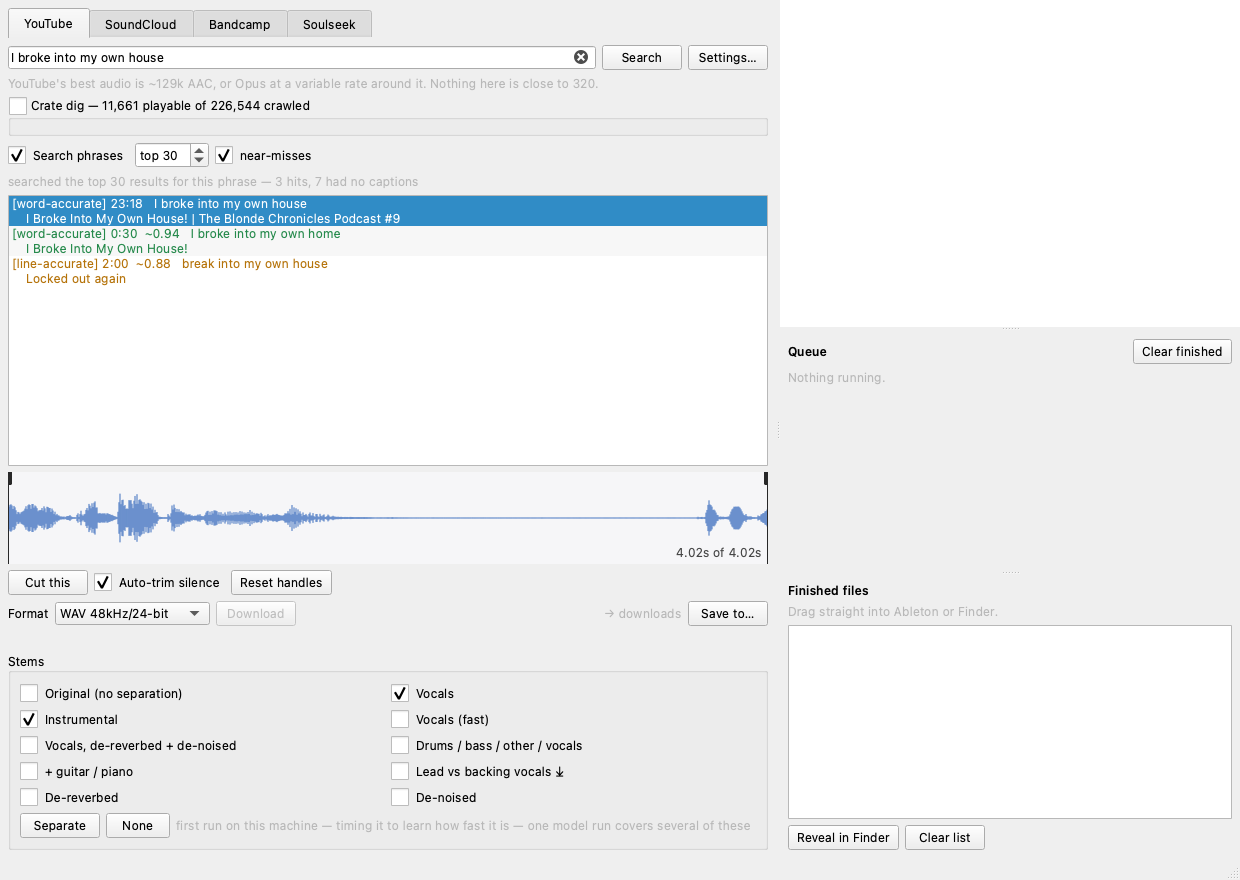
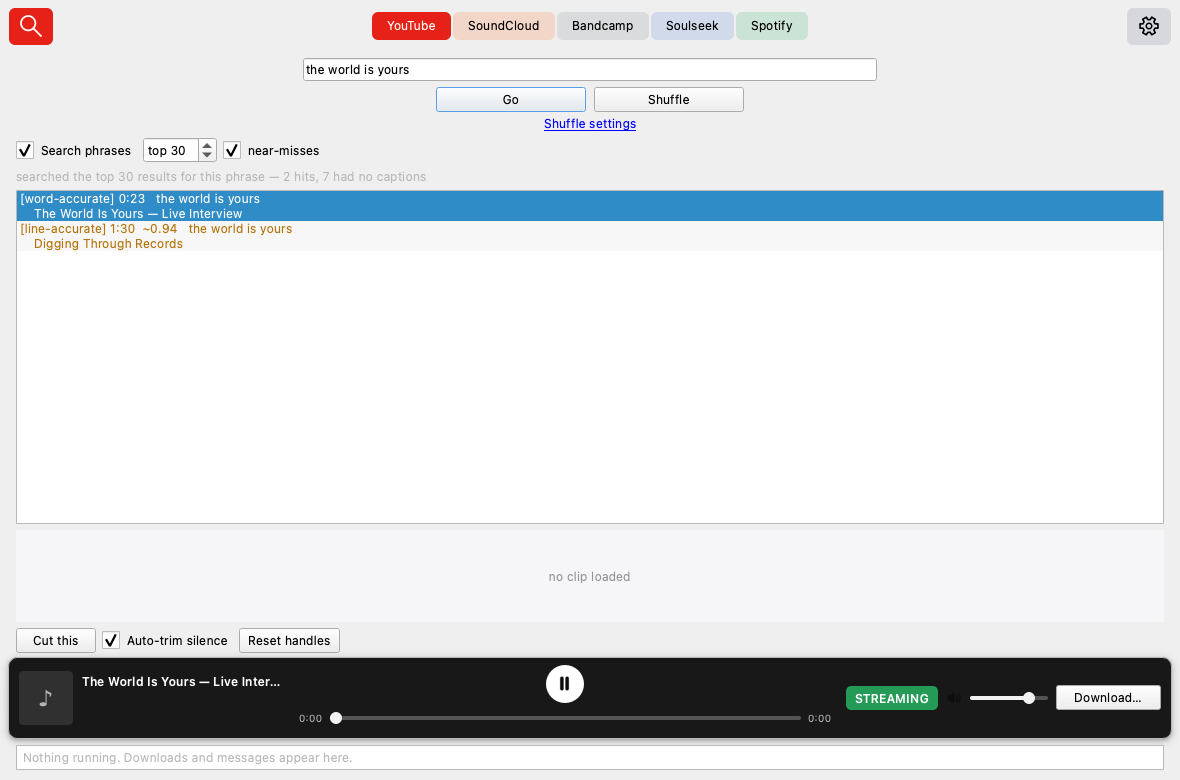
Restore Shuffle on clean checkouts

diff --git a/neyta/ui/window.py b/neyta/ui/window.py
@@ -12,9 +12,11 @@ gives the sources back when you press the magnifier beside it.
 from __future__ import annotations
 
 import logging
+import sqlite3
+import subprocess
 from pathlib import Path
 
-from PySide6.QtCore import QPoint, Qt, Signal
+from PySide6.QtCore import QPoint, Qt, QTimer, Signal
 from PySide6.QtWidgets import (
     QDialog, QFileDialog, QGridLayout, QHBoxLayout, QHeaderView, QLabel,
     QLineEdit, QMainWindow, QMessageBox, QPushButton, QStackedWidget,
@@ -228,6 +230,11 @@ class MainWindow(QMainWindow):
         popup_layout = QVBoxLayout(self.shuffle_popup)
         popup_layout.setContentsMargins(12, 12, 12, 12)
         popup_layout.addWidget(self.shuffle_panel)
+        self._samplette_process: subprocess.Popen | None = None
+        self._shuffle_when_ready = False
+        self._samplette_timer = QTimer(self)
+        self._samplette_timer.setInterval(2000)
+        self._samplette_timer.timeout.connect(self._refresh_samplette_library)
 
         self.model = results_ui.ResultModel(self)
         self.table = QTableView()
@@ -376,7 +383,7 @@ class MainWindow(QMainWindow):
         self.page_bar.selected.connect(self.show_page)
         self.search.returnPressed.connect(self.run_search)
         self.search_button.clicked.connect(self.run_search)
-        self.shuffle_button.clicked.connect(self.shuffle_panel.shuffle)
+        self.shuffle_button.clicked.connect(self._shuffle)
         self.shuffle_settings_button.clicked.connect(self._toggle_shuffle_popup)
         self.table.selectionModel().currentRowChanged.connect(self._on_row_selected)
         self.table.doubleClicked.connect(self.preview_result_at)
@@ -662,15 +669,88 @@ class MainWindow(QMainWindow):
         self.shuffle_popup.show()
 
     def _shuffle_controls_visible(self) -> bool:
-        return self.tab_key == "youtube" and self.shuffle_panel.library is not None
+        return self.tab_key == "youtube"
 
     def _refresh_shuffle_controls(self) -> None:
         visible = self._shuffle_controls_visible()
+        building = self._samplette_timer.isActive()
+        has_library = self.shuffle_panel.library is not None
         self.shuffle_button.setVisible(visible)
         self.shuffle_settings_button.setVisible(visible)
-        self.shuffle_button.setEnabled(visible and self.shuffle_panel.can_shuffle())
+        self.shuffle_button.setText("Building…" if building else "Shuffle")
+        self.shuffle_button.setEnabled(
+            visible and not building
+            and (self.shuffle_panel.can_shuffle() if has_library else True)
+        )
+        self.shuffle_settings_button.setEnabled(visible and has_library)
+        self.shuffle_button.setToolTip(
+            "" if has_library else
+            "Build the local crate on first use, then shuffle YouTube tracks."
+        )
         if not visible:
             self.shuffle_popup.hide()
+
+    def _shuffle(self) -> None:
+        if self.shuffle_panel.library is not None:
+            self.shuffle_panel.shuffle()
+            return
+        self._shuffle_when_ready = True
+        self._start_samplette_library()
+
+    def _start_samplette_library(self) -> None:
+        script = config.SAMPLETTE_ROOT / "run.sh"
+        if not script.is_file():
+            self.statusBar().showMessage(
+                f"Shuffle needs samplette-local at {config.SAMPLETTE_ROOT}"
+            )
+            self._shuffle_when_ready = False
+            return
+        if (
+            self._samplette_process is None
+            or self._samplette_process.poll() is not None
+        ):
+            log_path = self.services.paths.logs / "samplette.log"
+            with log_path.open("ab") as output:
+                self._samplette_process = subprocess.Popen(
+                    [str(script), "--no-open"],
+                    cwd=config.SAMPLETTE_ROOT,
+                    stdout=output,
+                    stderr=subprocess.STDOUT,
+                    start_new_session=True,
+                )
+        self.statusBar().showMessage(
+            "Building the Shuffle library — first tracks take about a minute…"
+        )
+        self._samplette_timer.start()
+        self._refresh_shuffle_controls()
+
+    def _refresh_samplette_library(self) -> None:
+        if samplette.SampletteLibrary.available():
+            library = None
+            try:
+                library = samplette.SampletteLibrary()
+                if library.count() > 0:
+                    self.shuffle_panel.attach(library)
+                    self._samplette_timer.stop()
+                    self._refresh_shuffle_controls()
+                    self.statusBar().showMessage("Shuffle library is ready.")
+                    if self._shuffle_when_ready:
+                        self._shuffle_when_ready = False
+                        self.shuffle_panel.shuffle()
+                    return
+            except (samplette.SampletteUnavailable, sqlite3.Error):
+                log.exception("samplette library is not ready")
+            if library is not None:
+                library.close()
+
+        process = self._samplette_process
+        if process is not None and process.poll() is not None:
+            self._samplette_timer.stop()
+            self._shuffle_when_ready = False
+            self._refresh_shuffle_controls()
+            self.statusBar().showMessage(
+                "Could not build the Shuffle library; see samplette.log."
+            )
 
     def _refresh_phrase_engine(self) -> None:
         """Point the phrase panel and the search field at the chosen engine.
@@ -1255,4 +1335,12 @@ class MainWindow(QMainWindow):
         # the window closes.
         self.slskd.stop()
         self.lucida.stop()
+        process = self._samplette_process
+        if process is not None and process.poll() is None:
+            process.terminate()
+            try:
+                process.wait(timeout=3)
+            except subprocess.TimeoutExpired:
+                process.kill()
+                process.wait(timeout=3)
         super().closeEvent(event)

diff --git a/tests/test_ui.py b/tests/test_ui.py
@@ -335,6 +335,10 @@ class FakeShuffleTrack:
 
 
 class FakeShuffleLibrary:
+    @classmethod
+    def available(cls):
+        return True
+
     def facet(self, _name, _limit):
         return [("Brazil", 2), ("MPB", 1)]
 
@@ -352,6 +356,9 @@ class FakeShuffleLibrary:
             FakeShuffleTrack(make_result(id=f"vid-{mode}-{i}", title=f"Track {i}"))
             for i in range(n)
         ]
+
+    def close(self):
+        pass
 
 
 def attach_shuffle_library(window):
@@ -1205,6 +1212,38 @@ class TestWindow:
         assert not window.shuffle_button.isVisibleTo(window)
         assert not window.shuffle_settings_button.isVisibleTo(window)
         assert not window.shuffle_popup.isVisible()
+
+    def test_shuffle_is_present_before_the_local_library_exists(self, window):
+        window.shuffle_panel.attach(None)
+        window._refresh_shuffle_controls()
+        window.tabs.setCurrentIndex(0)
+        assert window.shuffle_panel.library is None
+        assert window.shuffle_button.isVisibleTo(window)
+        assert window.shuffle_button.isEnabled()
+        assert not window.shuffle_settings_button.isEnabled()
+
+    def test_first_shuffle_starts_the_local_library(self, window, monkeypatch):
+        window.shuffle_panel.attach(None)
+        window._refresh_shuffle_controls()
+        started = []
+        monkeypatch.setattr(
+            window, "_start_samplette_library", lambda: started.append(True)
+        )
+        window.tabs.setCurrentIndex(0)
+        window.shuffle_button.click()
+        assert started == [True]
+
+    def test_the_library_attaches_as_soon_as_tracks_are_ready(
+        self, window, monkeypatch
+    ):
+        from neyta.core import samplette
+
+        monkeypatch.setattr(samplette, "SampletteLibrary", FakeShuffleLibrary)
+        window._refresh_samplette_library()
+
+        assert isinstance(window.shuffle_panel.library, FakeShuffleLibrary)
+        assert window.shuffle_button.isEnabled()
+        assert window.shuffle_settings_button.isEnabled()
 
     def test_the_shuffle_settings_link_toggles_the_popup(self, window):
         attach_shuffle_library(window)

diff --git a/neyta/ui/shufflepanel.py b/neyta/ui/shufflepanel.py
@@ -5,8 +5,8 @@ videos, with genre, style, region, key and tempo attached. A shuffled track is
 an ordinary YouTube result, so it drops into the same list, the same format
 picker and the same drag tray as anything you searched for.
 
-The panel hides itself when there is no library, rather than offering a button
-that cannot work.
+On a clean checkout, the first press starts samplette-local and the panel
+attaches as soon as playable tracks exist.
 """
 
 from __future__ import annotations
@@ -117,7 +117,7 @@ class ShufflePanel(QWidget):
     # -- library ----------------------------------------------------------
 
     def attach(self, library: samplette.SampletteLibrary | None) -> None:
-        """Wire up a library, or hide if there is not one."""
+        """Wire up a library, or reset while the first-use build runs."""
         self.library = library
         self._matches = 0
         if library is None:

diff --git a/README.md b/README.md
@@ -134,6 +134,11 @@ F minor between 90 and 100 BPM*, and keep digging inside that.
 A shuffled track is an ordinary YouTube result, so it flows into the same
 export dialog and drag tray as anything you searched for.
 
+The **Shuffle** button is always present on YouTube. On a clean checkout, its
+first press starts the local catalog builder; playable tracks begin appearing
+in about a minute and the button completes the shuffle automatically. The
+growing SQLite catalog stays local and is not committed to Git.
+
 Two honest caveats:
 
 - Only about 5% of the crawled rows have been resolved to a playable video
